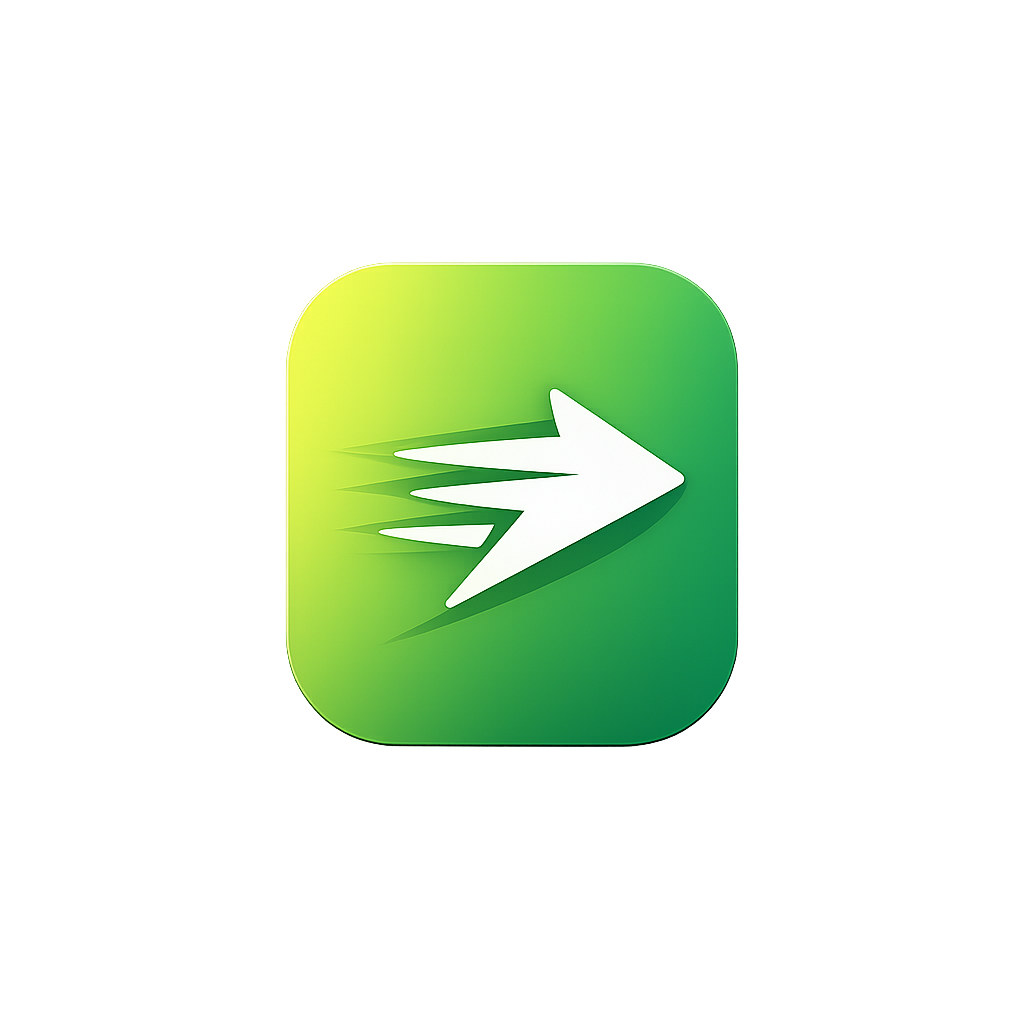
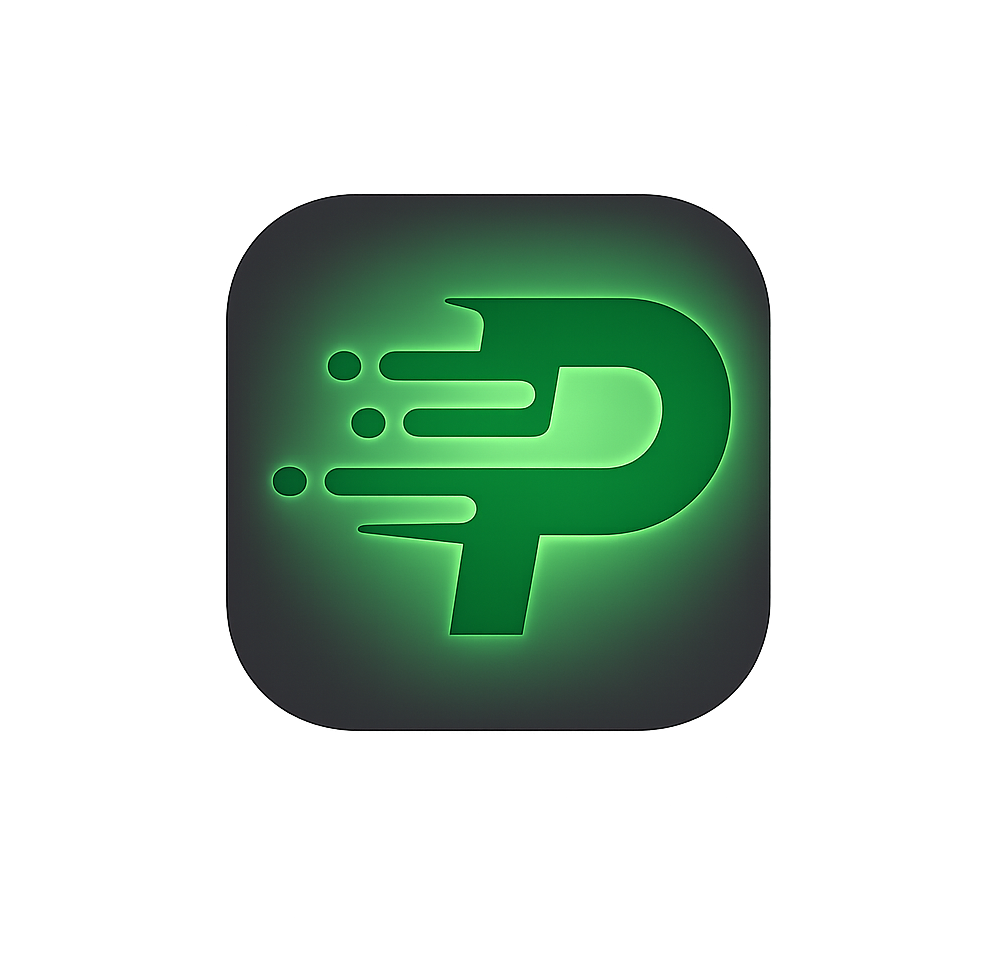
feat(home,about): implement dynamic action handling and enhance about screen content
- Add handleItemPress function to support multiple action types (service, store, food, url, route)
- Implement Linking for external URL navigation in home screen
- Update banner, store card, food card, and promo banner items to use unified action handler
- Refactor about screen with expanded service descriptions and company information
- Add service offerings section detailing Push Food, Ride, Car, and Delivery services
- Add competitive advantages section highlighting key platform benefits
- Add partnership section encouraging driver and merchant participation
- Update company footer from "Pamuda Nyipta Karya" to "Dunia Karya"
- Improve about screen layout with additional padding and better content organization
- Update app description to reflect super app positioning and multi-service offering

Changed region(s): [[0.2119, 0.1852, 0.7871, 0.7716]]

diff --git a/app/about.tsx b/app/about.tsx
@@ -24,17 +24,45 @@ export default function AboutScreen() {
         </View>
 
         <Text style={styles.desc}>
-          Push (Sistem Interaksi dan Respons Integratif) adalah platform digital yang akan memudahkan hari-hari kita semua. Melayani segala kebutuhan sehari-hari dengan "Mudah, Cepat, dan Nyaman".
+          Push adalah platform super app yang menghubungkan Anda dengan berbagai layanan sehari-hari dalam satu aplikasi. Dari pesan makanan, transportasi, hingga kirim paket - semua ada di Push.
         </Text>
 
         <View style={styles.card}>
           <Text style={styles.cardTitle}>Visi Kami</Text>
           <Text style={styles.cardText}>
-            Menjadi platform lokal terbaik yang memberdayakan driver dan toko-toko mikro, memberikan kemudahan nyata bagi setiap pelanggan.
+            Menjadi platform lokal terbaik yang memberdayakan mitra driver dan UMKM, sekaligus memberikan kemudahan akses layanan berkualitas bagi setiap pengguna.
           </Text>
         </View>
 
-        <Text style={styles.footer}>© 2026 Pamuda Nyipta Karya. All rights reserved.</Text>
+        <View style={styles.card}>
+          <Text style={styles.cardTitle}>Layanan Kami</Text>
+          <Text style={styles.cardText}>
+            • <Text style={styles.bold}>Push Food</Text> - Pesan makanan dari restoran favorit{'\n'}
+            • <Text style={styles.bold}>Push Ride</Text> - Transportasi ojek online cepat{'\n'}
+            • <Text style={styles.bold}>Push Car</Text> - Layanan mobil untuk perjalanan nyaman{'\n'}
+            • <Text style={styles.bold}>Push Delivery</Text> - Kirim paket dengan aman
+          </Text>
+        </View>
+
+        <View style={styles.card}>
+          <Text style={styles.cardTitle}>Keunggulan Push</Text>
+          <Text style={styles.cardText}>
+            • Harga transparan dan kompetitif{'\n'}
+            • Driver terverifikasi dan profesional{'\n'}
+            • Pembayaran mudah dengan berbagai metode{'\n'}
+            • Lacak pesanan secara real-time{'\n'}
+            • Dukungan pelanggan 24/7
+          </Text>
+        </View>
+
+        <View style={styles.card}>
+          <Text style={styles.cardTitle}>Bergabung Bersama Kami</Text>
+          <Text style={styles.cardText}>
+            Ingin menjadi mitra driver atau mendaftarkan toko Anda? Hubungi kami untuk informasi lebih lanjut dan bergabunglah dalam ekosistem Push yang terus berkembang.
+          </Text>
+        </View>
+
+        <Text style={styles.footer}>© 2026 Dunia Karya. All rights reserved.</Text>
       </ScrollView>
     </SafeAreaView>
   );
@@ -45,13 +73,14 @@ const styles = StyleSheet.create({
   header: { flexDirection: 'row', alignItems: 'center', justifyContent: 'space-between', paddingHorizontal: 16, paddingVertical: 12, borderBottomWidth: 1, borderBottomColor: '#F3F4F6', backgroundColor: '#fff' },
   backBtn: { width: 40, height: 40, alignItems: 'center', justifyContent: 'center', borderRadius: 20 },
   headerTitle: { fontSize: 16, fontWeight: '700', color: '#1F2937' },
-  scroll: { padding: 24 },
+  scroll: { padding: 24, paddingBottom: 40 },
   center: { alignItems: 'center', marginBottom: 32 },
   appName: { fontSize: 24, fontWeight: '800', color: '#2ECC71' },
   version: { fontSize: 14, color: '#6B7280', marginTop: 4 },
-  desc: { fontSize: 15, color: '#374151', lineHeight: 24, textAlign: 'center', marginBottom: 32 },
-  card: { backgroundColor: '#fff', padding: 20, borderRadius: 16, elevation: 1, shadowColor: '#000', shadowOpacity: 0.05, shadowRadius: 3, marginBottom: 40 },
-  cardTitle: { fontSize: 16, fontWeight: '700', color: '#1F2937', marginBottom: 8 },
+  desc: { fontSize: 15, color: '#374151', lineHeight: 24, textAlign: 'center', marginBottom: 24 },
+  card: { backgroundColor: '#fff', padding: 20, borderRadius: 16, elevation: 1, shadowColor: '#000', shadowOpacity: 0.05, shadowRadius: 3, marginBottom: 16 },
+  cardTitle: { fontSize: 16, fontWeight: '700', color: '#1F2937', marginBottom: 12 },
   cardText: { fontSize: 14, color: '#4B5563', lineHeight: 22 },
-  footer: { textAlign: 'center', color: '#9CA3AF', fontSize: 12 }
+  bold: { fontWeight: '700', color: '#1F2937' },
+  footer: { textAlign: 'center', color: '#9CA3AF', fontSize: 12, marginTop: 24, lineHeight: 18 }
 });

diff --git a/app/(tabs)/home.tsx b/app/(tabs)/home.tsx
@@ -8,6 +8,7 @@ import { storageUrl } from '../../lib/storage';
 import { useAuthStore } from '../../lib/authStore';
 import { useNotificationStore } from '../../lib/notificationStore';
 import { HomeSection, HomeSectionItem } from '../../types';
+import { Linking } from 'react-native';
 
 const GREEN = '#2ECC71';
 const DARK_GREEN = '#22A85A';
@@ -81,6 +82,35 @@ export default function HomeScreen() {
     return () => clearInterval(timer);
   }, [activeOrder]); // Re-run when activeOrder changes
 
+  const handleItemPress = (item: HomeSectionItem) => {
+    if (!item.action_type || !item.action_value) return;
+
+    switch (item.action_type) {
+      case 'service':
+        // Navigate to service page with slug
+        router.push(`/service/${item.action_value}` as any);
+        break;
+      case 'store':
+        // Navigate to store page with UUID
+        router.push(`/store/${item.action_value}` as any);
+        break;
+      case 'food':
+        // Navigate to food page with UUID
+        router.push(`/food/${item.action_value}` as any);
+        break;
+      case 'url':
+        // Open external URL
+        Linking.openURL(item.action_value).catch(err => console.error('Failed to open URL:', err));
+        break;
+      case 'route':
+        // Navigate to internal route
+        router.push(item.action_value as any);
+        break;
+      default:
+        console.log('Unknown action type:', item.action_type);
+    }
+  };
+
   if (loading) return (
     <SafeAreaView style={styles.center}>
       <ActivityIndicator size="large" color={GREEN} />
@@ -106,7 +136,7 @@ export default function HomeScreen() {
           }}
           scrollEventThrottle={16}
           renderItem={({ item }) => (
-            <Pressable style={styles.bannerItem}>
+            <Pressable style={styles.bannerItem} onPress={() => handleItemPress(item)}>
               {item.image ? (
                 <Image source={{ uri: storageUrl(item.image)! }} style={styles.bannerImage} resizeMode="cover" />
               ) : (
@@ -184,7 +214,7 @@ export default function HomeScreen() {
           keyExtractor={s => s.id}
           contentContainerStyle={{ gap: 12 }}
           renderItem={({ item }) => (
-            <Pressable style={styles.storeCard} onPress={() => router.push(`/store/${item.action_value}` as any)}>
+            <Pressable style={styles.storeCard} onPress={() => handleItemPress(item)}>
               <View style={styles.storeImgWrap}>
                 {item.image
                   ? <Image source={{ uri: storageUrl(item.image)! }} style={StyleSheet.absoluteFill} resizeMode="cover" />
@@ -219,7 +249,7 @@ export default function HomeScreen() {
           keyExtractor={f => f.id}
           contentContainerStyle={{ gap: 12 }}
           renderItem={({ item }) => (
-            <Pressable style={styles.foodCard} onPress={() => router.push(`/food/${item.action_value}` as any)}>
+            <Pressable style={styles.foodCard} onPress={() => handleItemPress(item)}>
               <View style={styles.foodImgWrap}>
                 {item.image
                   ? <Image source={{ uri: storageUrl(item.image)! }} style={StyleSheet.absoluteFill} resizeMode="cover" />
@@ -244,7 +274,7 @@ export default function HomeScreen() {
           <Text style={styles.sectionTitle}>{section.title}</Text>
         </View>
         {section.items.map((item: HomeSectionItem) => (
-          <Pressable key={item.id} style={styles.promoBanner}>
+          <Pressable key={item.id} style={styles.promoBanner} onPress={() => handleItemPress(item)}>
             <View style={styles.promoLeft}>
               <View style={styles.promoTag}><Text style={styles.promoTagText}>PROMO</Text></View>
               <Text style={styles.promoTitle}>{item.title}</Text>